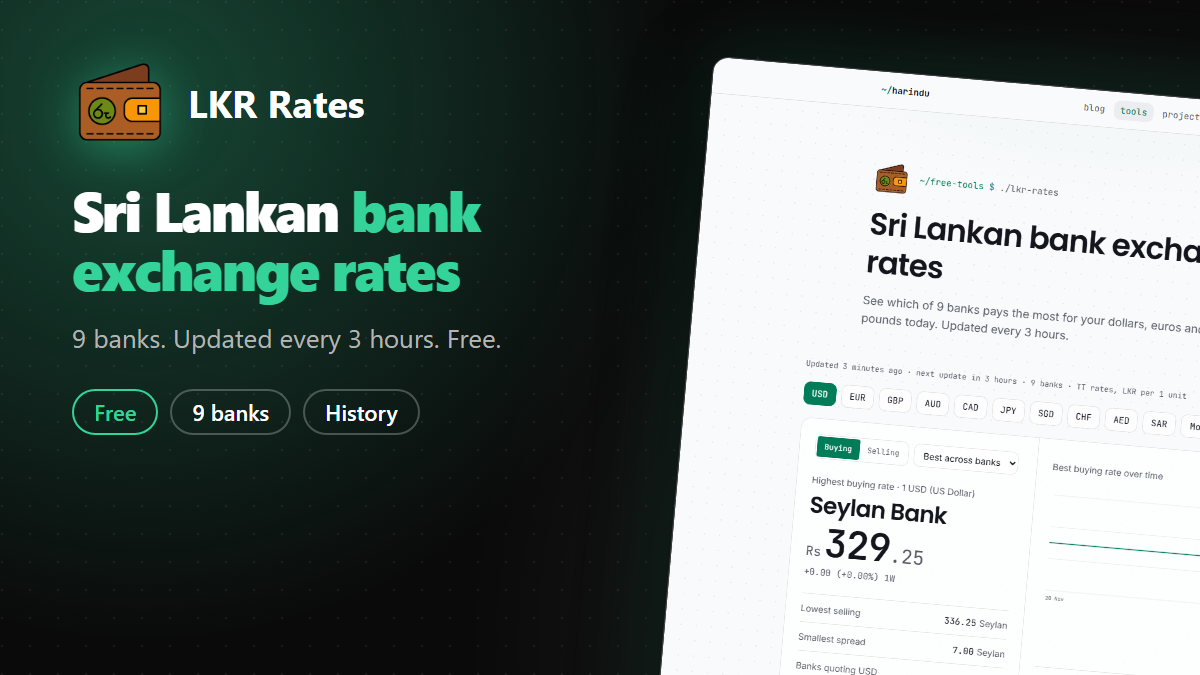
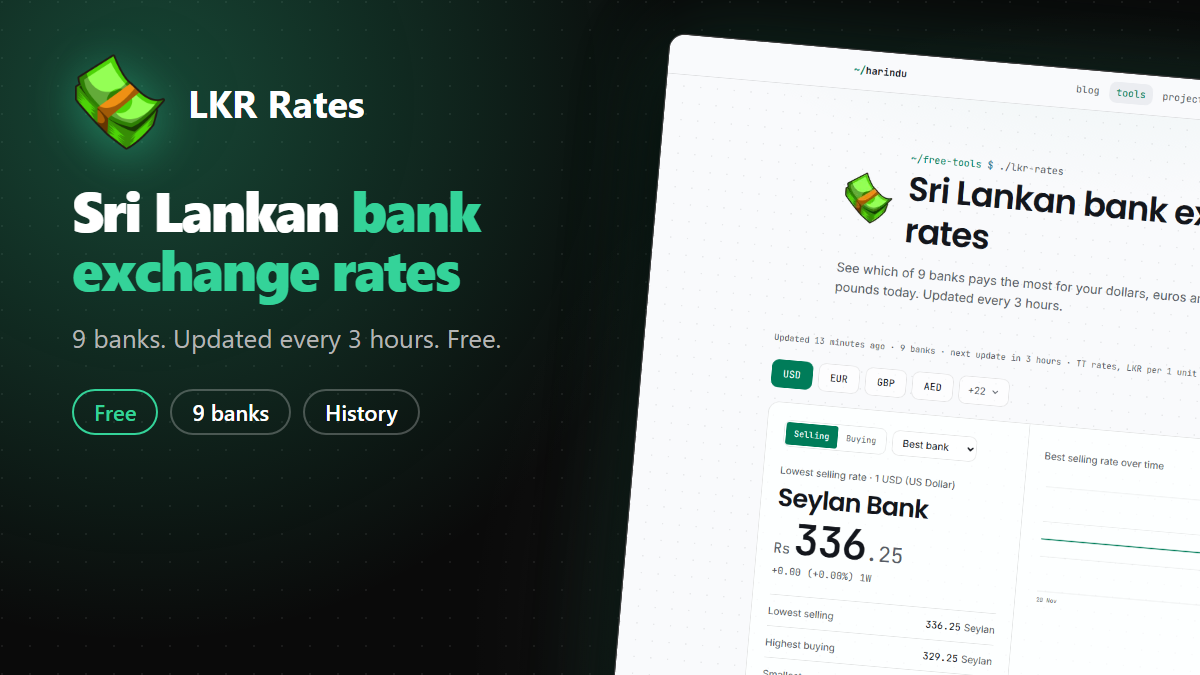
Exchange rates tool: mobile first, installable app, selling first (v1.33.0)

diff --git a/public/free-tools/exchange-rates/sw.js b/public/free-tools/exchange-rates/sw.js
@@ -1,0 +1,52 @@
+/* global self, caches, fetch, URL, location, Response */
+// Service worker for the LKR Rates tool only (scope: /free-tools/exchange-rates/).
+// Rates data: network first, last copy when offline. The page: network first, cached copy when offline.
+// Built files (/_astro/, fonts, icons): cache first.
+const CACHE = "lkr-rates-v1";
+const PAGE = "/free-tools/exchange-rates/";
+
+self.addEventListener("install", (e) => {
+  e.waitUntil(caches.open(CACHE).then((c) => c.add(PAGE)).then(() => self.skipWaiting()));
+});
+
+self.addEventListener("activate", (e) => {
+  e.waitUntil(
+    caches.keys()
+      .then((keys) => Promise.all(keys.filter((k) => k !== CACHE).map((k) => caches.delete(k))))
+      .then(() => self.clients.claim()),
+  );
+});
+
+const networkFirst = (req, fallback) =>
+  fetch(req)
+    .then((res) => {
+      if (res.ok) caches.open(CACHE).then((c) => c.put(req, res.clone()));
+      return res;
+    })
+    .catch(() => caches.match(req).then((hit) => hit || (fallback ? caches.match(fallback) : Response.error())));
+
+self.addEventListener("fetch", (e) => {
+  const { request } = e;
+  if (request.method !== "GET") return;
+  const url = new URL(request.url);
+
+  // Rate files live on a data-only Pages site under /d/.
+  if (url.hostname.endsWith(".pages.dev") && url.pathname.startsWith("/d/")) {
+    e.respondWith(networkFirst(request));
+    return;
+  }
+  if (url.origin !== location.origin) return;
+
+  if (request.mode === "navigate") {
+    e.respondWith(networkFirst(request, PAGE));
+    return;
+  }
+  if (url.pathname.startsWith("/_astro/") || url.pathname.startsWith("/lkr/") || /\.(woff2?|png|jpg|svg)$/.test(url.pathname)) {
+    e.respondWith(
+      caches.match(request).then((hit) => hit || fetch(request).then((res) => {
+        if (res.ok) caches.open(CACHE).then((c) => c.put(request, res.clone()));
+        return res;
+      })),
+    );
+  }
+});

diff --git a/src/content/blog/sri-lanka-bank-exchange-rates-compare-free.md b/src/content/blog/sri-lanka-bank-exchange-rates-compare-free.md
@@ -1,51 +1,54 @@
 ---
-title: "Compare Sri Lankan Bank Exchange Rates for Free, Updated Every 3 Hours"
-description: "A free page that shows today's USD, EUR and GBP buying and selling rates from 9 Sri Lankan banks side by side, with a history of past rates. Open source, no sign-up."
+title: "Sri Lankan Bank Exchange Rates for Free Daily updates"
+description: "Compare Sri Lankan Bank Exchange Rates for Free, Updated Every 3 Hours. Install app to get Daily Bank Exchange Rates updates on your Mobiles free."
 date: 2026-11-20T09:40:00+05:30
+updated: 2026-11-20T11:00:00+05:30
 category: "Web"
-tags: ["exchange rates", "sri lanka", "usd to lkr", "banks", "open source", "free tool"]
+tags: ["exchange rates", "sri lanka", "usd to lkr", "banks", "open source", "free tool", "pwa"]
 repo: "harindujayakody/exchange-rates-srilanka"
 image: "./images/exchange-rates-cover.png"
-imageAlt: "The LKR Rates logo next to the headline Sri Lankan bank exchange rates, with the app's USD screen on the right."
+imageAlt: "The LKR Rates money stack logo next to the headline Sri Lankan bank exchange rates, with the tool's USD screen on the right."
 draft: false
 ---
 
-If you send money home or sell dollars in Sri Lanka, the rate you get depends a lot on the bank. Finding the best one means opening nine bank websites, and each lays out its table differently. So I built a page that does it for you: **[LKR Rates](/free-tools/exchange-rates/)**, and it runs right on this site. It is free, it needs no account, and the code is open source.
+If you send money home or sell dollars in Sri Lanka, the rate you get depends on the bank. Each of the nine bank websites lays out its table differently, and I got tired of opening them one by one. So I built [LKR Rates](/free-tools/exchange-rates/). It shows nine banks side by side. It is free, and there is no account to make.
 
-## What you see
+## What the page shows
 
-Pick a currency and the page shows which bank pays the most for it today, in large type, with how the rate has moved over the last week. Under that you get the lowest selling rate, the smallest gap between buying and selling, and how many banks quote that currency. A table below ranks every bank for the rate type you picked.
+The page opens on the selling rate and shows the buying rate next to it. Selling is what you pay the bank when you buy foreign currency. Buying is what the bank pays you in rupees when you hand some over. All rates are telegraphic transfer (TT) rates, in rupees for one unit of the currency.
 
-![The exchange rates tool on harindujayakody.com showing the best USD buying rate, a chart and a table of banks](./images/exchange-rates-home.png)
+USD, EUR, GBP and AED sit at the top. The other currencies are behind a button, so the screen stays short on a phone.
 
-A few things to know when you read it:
+![The exchange rates tool on harindujayakody.com with the best USD selling rate, a chart and a table of banks](./images/exchange-rates-home.png)
 
-- **Buying** is what the bank pays you in rupees when you hand over foreign currency.
-- **Selling** is what you pay the bank when you buy foreign currency from it.
-- All rates are telegraphic transfer (TT) rates in LKR for one unit of the currency.
-
-Below the main panel there is a list of the ten most used currencies, each with the bank that pays most and the bank that charges least. You can also search by bank or currency, for example "sampath" or "euro".
-
-## The 9 banks
-
-Commercial Bank, Bank of Ceylon, People's Bank, Sampath Bank, NDB Bank, Seylan Bank, Nations Trust Bank, DFCC Bank and National Savings Bank. Pan Asia Banking and HNB are not included yet, because their pages need a real browser to show the rates.
+Under the currency buttons you see the bank with the best rate in large type, and how that rate moved over the range you pick. Below that are the lowest selling rate, the highest buying rate, the smallest gap between the two, and how many banks quote the currency. A table underneath ranks every bank, with the best one marked Best. If a bank's rates are more than 7 hours old, or its last update failed, it gets a Stale label.
 
 ## Rate history
 
-Every refresh is saved. The chart shows the best rate over time, and you can switch the range from one day to all time. The "Daily best and worst rates" section lists, for each day, the best and worst buying and selling rate with the bank behind it. The history starts on 2 November 2026, so the longer ranges fill up as the weeks pass.
+Every refresh is saved. The chart shows the best rate over time for 1 day, 1 week, 1 month, 6 months or everything saved so far, and you can hover or touch the line to read the rate at that moment. The "Daily best and worst rates" section lists the best and worst selling and buying rate for each day, with the bank behind each one. The history starts on 2 November 2026, so the longer ranges fill in as the weeks pass.
 
-## How it works
+## Install it on your phone
 
-Every 3 hours a script reads each bank's public rates page. A free AI model copies the numbers from each row, and my code picks the right TT columns and rejects anything that looks wrong, such as a selling rate lower than the buying rate. The model only copies. The code decides. Sampath publishes its rates as data, so that one skips the model.
+The page is also an app. On Android, Chrome shows an Install box on the page, and you tap Install. On an iPhone, open the page in Safari, tap Share and choose Add to Home Screen. After that it opens from your home screen like any other app, and the last rates you loaded stay readable when you have no signal.
 
-There is no server behind the page. The script runs on my own PC, writes the rates into small data files and publishes them on Cloudflare Pages. This site reads those files when you open the tool. Because it runs on a home connection, it can read banks that block data center servers. The flip side is that if my PC is off for a long time, the numbers get older. A bank whose rates are more than 7 hours old shows a "Stale" label.
+Once you have installed it, the install box stops showing. If you tap Not now instead, it stays away for 30 days.
 
-## Things to keep in mind
+![The tool on a phone: the install box and the four main currencies, then the chart and the bank table](./images/exchange-rates-mobile.png)
 
-These are indicative rates read from the banks' websites. Banks change rates during the day, and the amount you transfer can change the rate you are offered. Confirm with your bank before you transact. The page only shows TT rates, not notes or cheques.
+The app does not send notifications. You open it and see the rates from the latest 3 hour refresh.
+
+## Where the numbers come from
+
+Every 3 hours a script reads each bank's public rates page. A free AI model copies the numbers from each row. My code picks the TT columns and throws out rows that look wrong, such as a selling rate lower than the buying rate. Sampath publishes its rates as data, so that one skips the model.
+
+The banks are Commercial Bank, Bank of Ceylon, People's Bank, Sampath Bank, NDB Bank, Seylan Bank, Nations Trust Bank, DFCC Bank and National Savings Bank. Pan Asia Banking and HNB are missing for now, because their pages need a real browser to show the rates.
+
+The script runs on my own PC and publishes the rates as small data files on Cloudflare Pages. There is no server, and this site reads those files when you open the tool. A home connection can read banks that block data center servers. The catch is that if my PC stays off for a long time, the numbers get old and the Stale label shows up.
+
+## Keep in mind
+
+These are indicative rates read from the banks' websites. Banks change rates during the day, and the amount you transfer can change the offer. Check with your bank before you send or sell. The page shows TT rates only, not notes or cheques.
 
 ## Run your own copy
 
-The project is on [GitHub](https://github.com/harindujayakody/exchange-rates-srilanka) under the MIT licence. The README covers the static setup I use. It also has a Docker version with a Telegram bot and an API, if you would rather host it on a server.
-
-If you spot a wrong number, open an issue there, with the bank and currency, and I will look at it.
+The code is on [GitHub](https://github.com/harindujayakody/exchange-rates-srilanka) under the MIT licence. The README explains the static setup I use. It also has a Docker version with a Telegram bot and an API, for anyone who wants a server. If a number looks wrong, open an issue with the bank and the currency.

diff --git a/README.md b/README.md
@@ -48,7 +48,7 @@ A static Astro site that ships almost no JavaScript, pulls its data from GitHub 
 | **Was this helpful?** | Yes/No box on every post. Yes votes are counted in a small Cloudflare Worker (`worker/`, KV storage, one vote per visitor per post, no login) and the footer lists the top posts |
 | **Fast navigation** | Pages prerender on hover (Speculation Rules) and cross-fade with View Transitions; both need no JavaScript and fall back to normal links |
 | **Projects & Tools** | Hand-picked tools and projects plus every public GitHub repo, sorted by stars |
-| **Free tools** | Browser tools under `/free-tools/`: an HTTP status codes reference (hub plus a page for each of the 63 codes) a 2FA (TOTP) code generator that sends and saves nothing, and a Sri Lanka NIC decoder (birthday, age, gender, old/new conversion) that can also be embedded in posts, a landing page for the Octopus Agent anti detect browser with Windows and Mac downloads that follow the newest GitHub release, and a Sri Lankan bank exchange rates tool that runs on the page itself (`components/RatesApp.astro`): best bank per currency, buying/selling toggle, history chart, ranked bank table and daily best and worst. It reads small JSON files that a script on my PC refreshes every 3 hours (`src/data/rates.ts` holds the data address). Each tool is a card with its own share image. "Star on GitHub" cards with live star counts |
+| **Free tools** | Browser tools under `/free-tools/`: an HTTP status codes reference (hub plus a page for each of the 63 codes) a 2FA (TOTP) code generator that sends and saves nothing, and a Sri Lanka NIC decoder (birthday, age, gender, old/new conversion) that can also be embedded in posts, a landing page for the Octopus Agent anti detect browser with Windows and Mac downloads that follow the newest GitHub release, and a Sri Lankan bank exchange rates tool that runs on the page itself (`components/RatesApp.astro`): best bank per currency, buying/selling toggle, history chart, ranked bank table and daily best and worst. It is also an installable app (manifest in `public/lkr/`, service worker at `public/free-tools/exchange-rates/sw.js`). It reads small JSON files that a script on my PC refreshes every 3 hours (`src/data/rates.ts` holds the data address). Each tool is a card with its own share image. "Star on GitHub" cards with live star counts |
 | **Repo timeline** | Every public repository grouped by year, refreshed daily from the GitHub API |
 | **Contribution graph** | The last year of GitHub activity on the home page, built at build time in the site's mint, no JavaScript |
 | **Comments** | giscus (GitHub Discussions) on every post, in the site's colours; loads only when you scroll to it. `comments: false` turns it off per post |

diff --git a/CHANGELOG.md b/CHANGELOG.md
@@ -2,6 +2,18 @@
 
 All notable changes to this site. Format: [Keep a Changelog](https://keepachangelog.com/en/1.1.0/), versions follow [SemVer](https://semver.org/).
 
+## [1.33.0] - 2026-11-20
+
+### Added
+- The exchange rates tool is an installable app (PWA): its own manifest, icons and a service worker limited to `/free-tools/exchange-rates/`. Phones get an install box (Install on Android and Chrome, "How to install" for iPhone). It is never shown once the app is installed or opened as an app, and "Not now" hides it for 30 days. The last loaded rates stay readable offline.
+- The tool uses the new money stack logo for the page, the favicon, the home screen icon and the install box. `Layout` takes `icon` and `appleIcon` props and a `head` slot for page specific tags.
+
+### Changed
+- Mobile layout: a compact header (logo beside the title, intro hidden on phones), a one line status, and the rate readout reachable without scrolling past the intro.
+- Currency switch shows USD, EUR, GBP and AED. The other currencies sit behind a `+N` button; a chosen one stays visible as a button.
+- Selling comes first: the Selling/Buying switch, the table columns and the daily table list selling before buying, and the page opens on the selling rate. The summary lists the highest buying rate too.
+- Blog post rewritten with a new title and description, current desktop and phone screenshots and a new cover.
+
 ## [1.32.0] - 2026-11-20
 
 ### Changed
